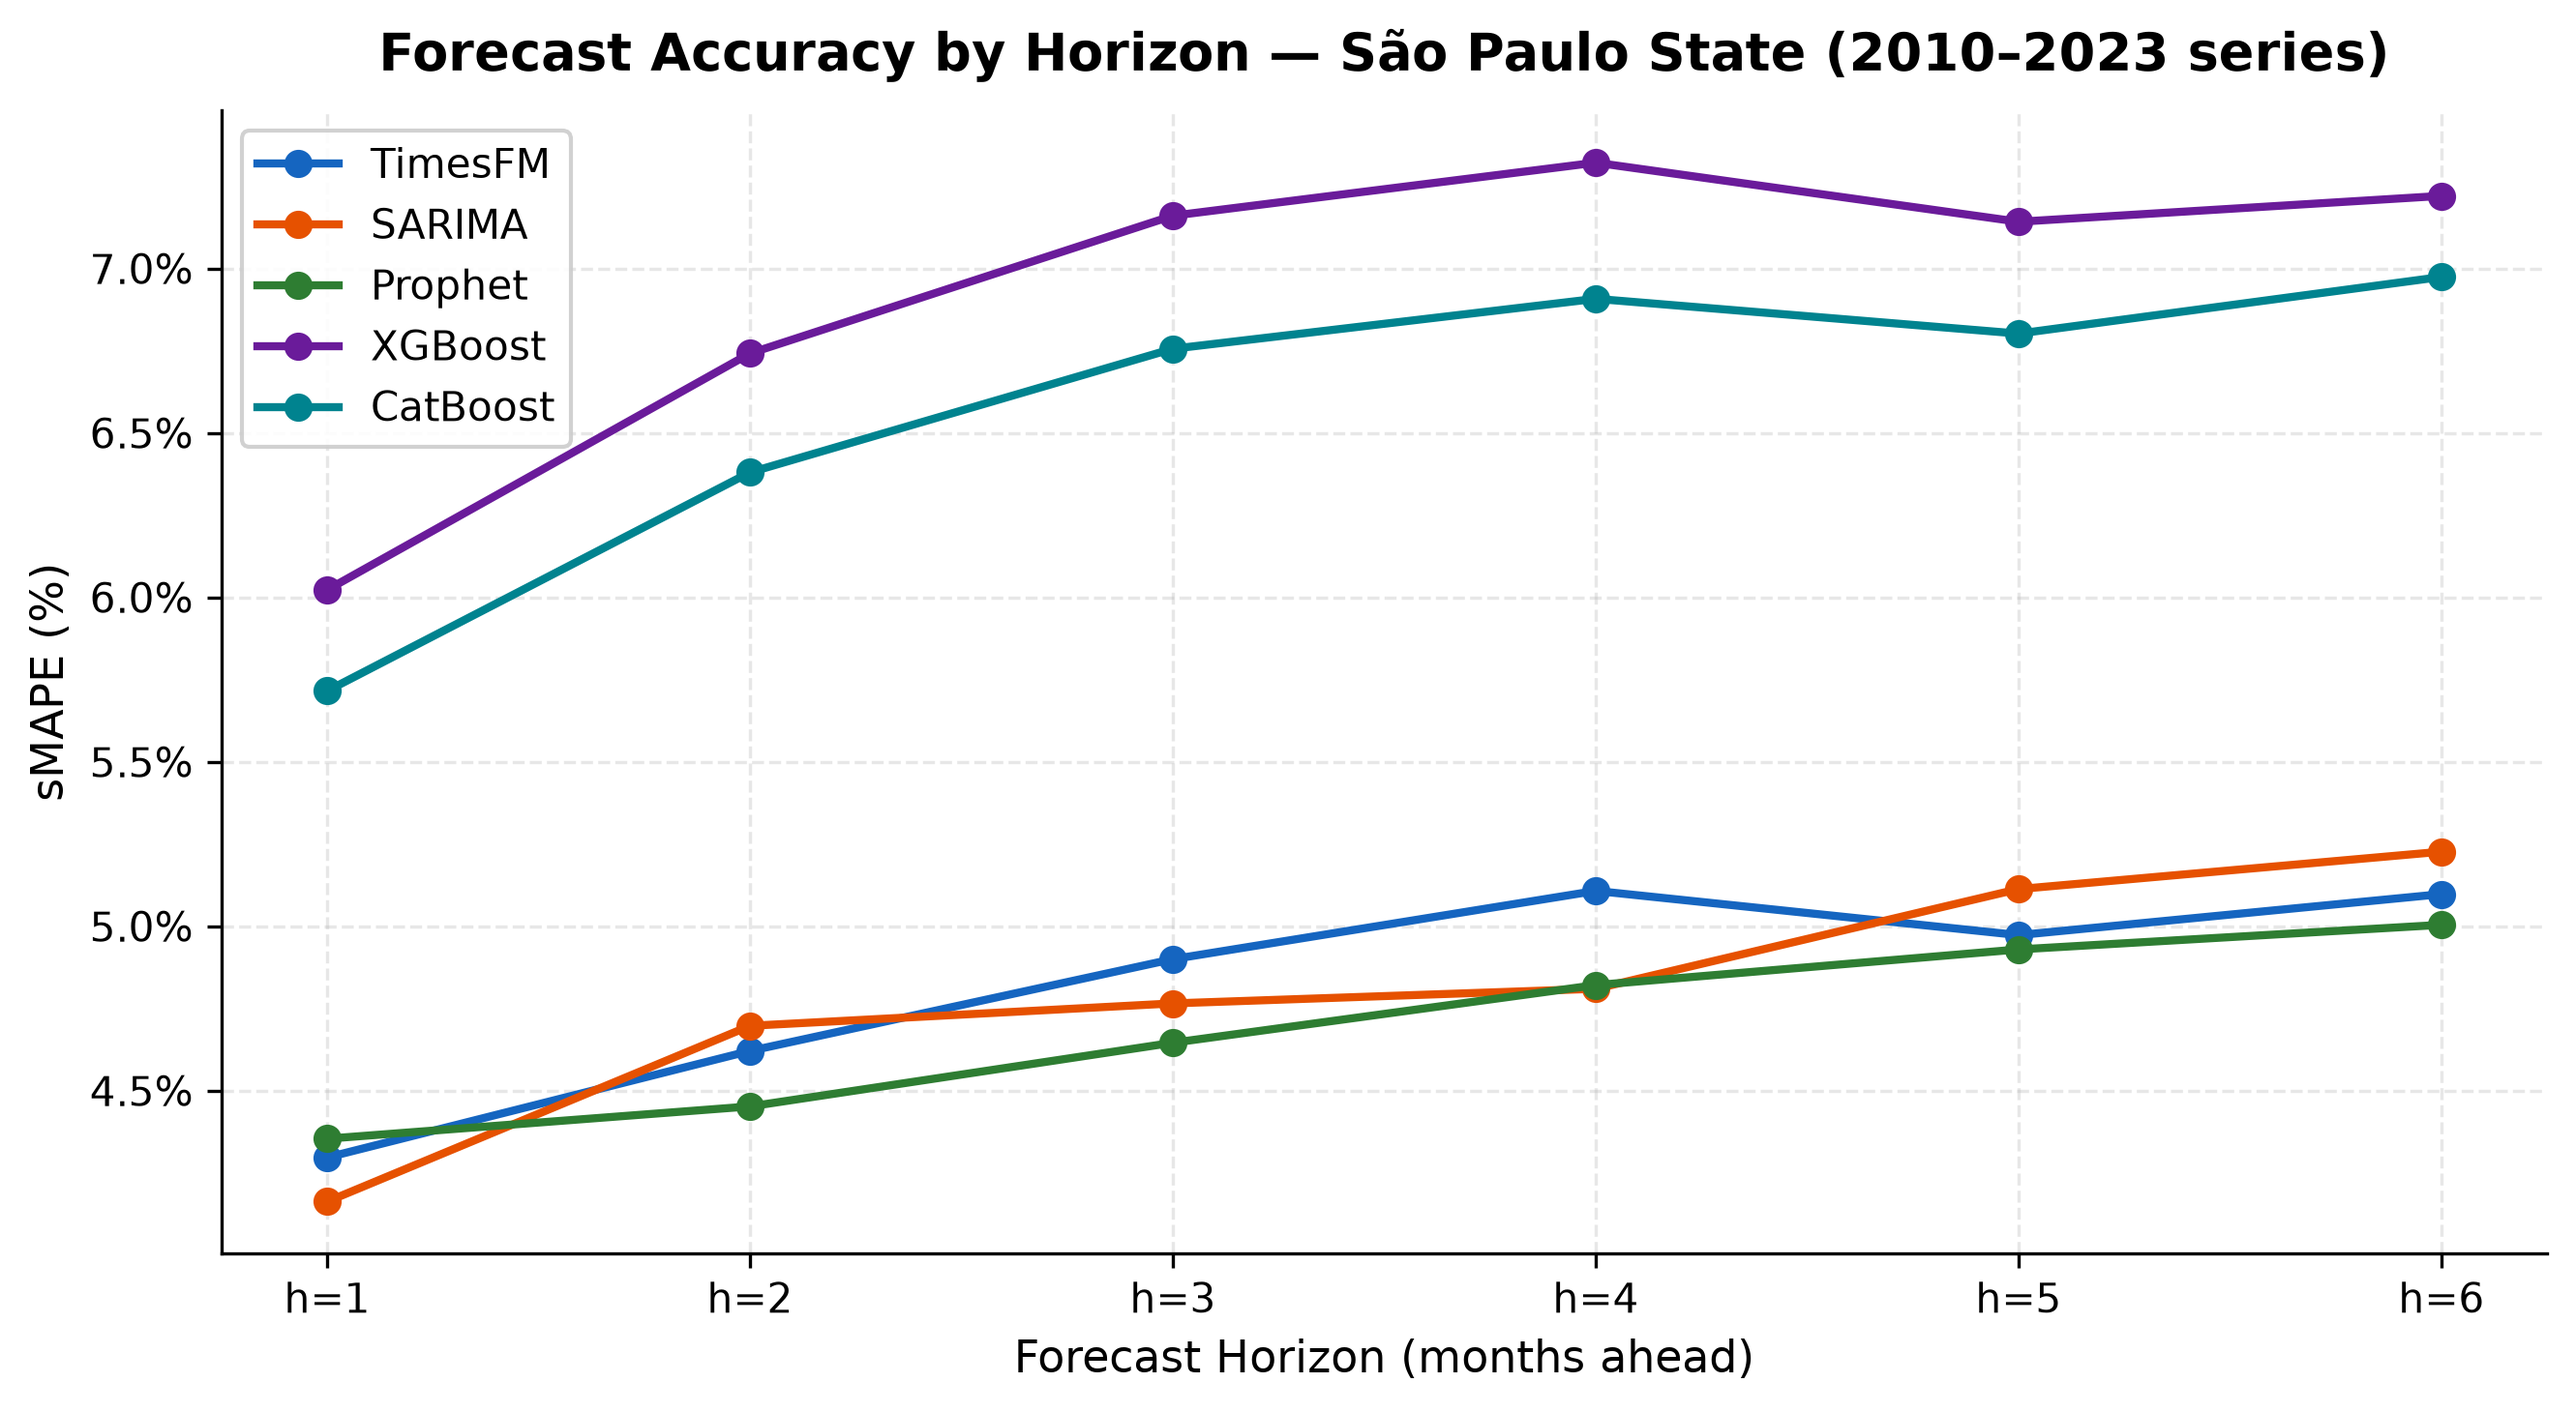
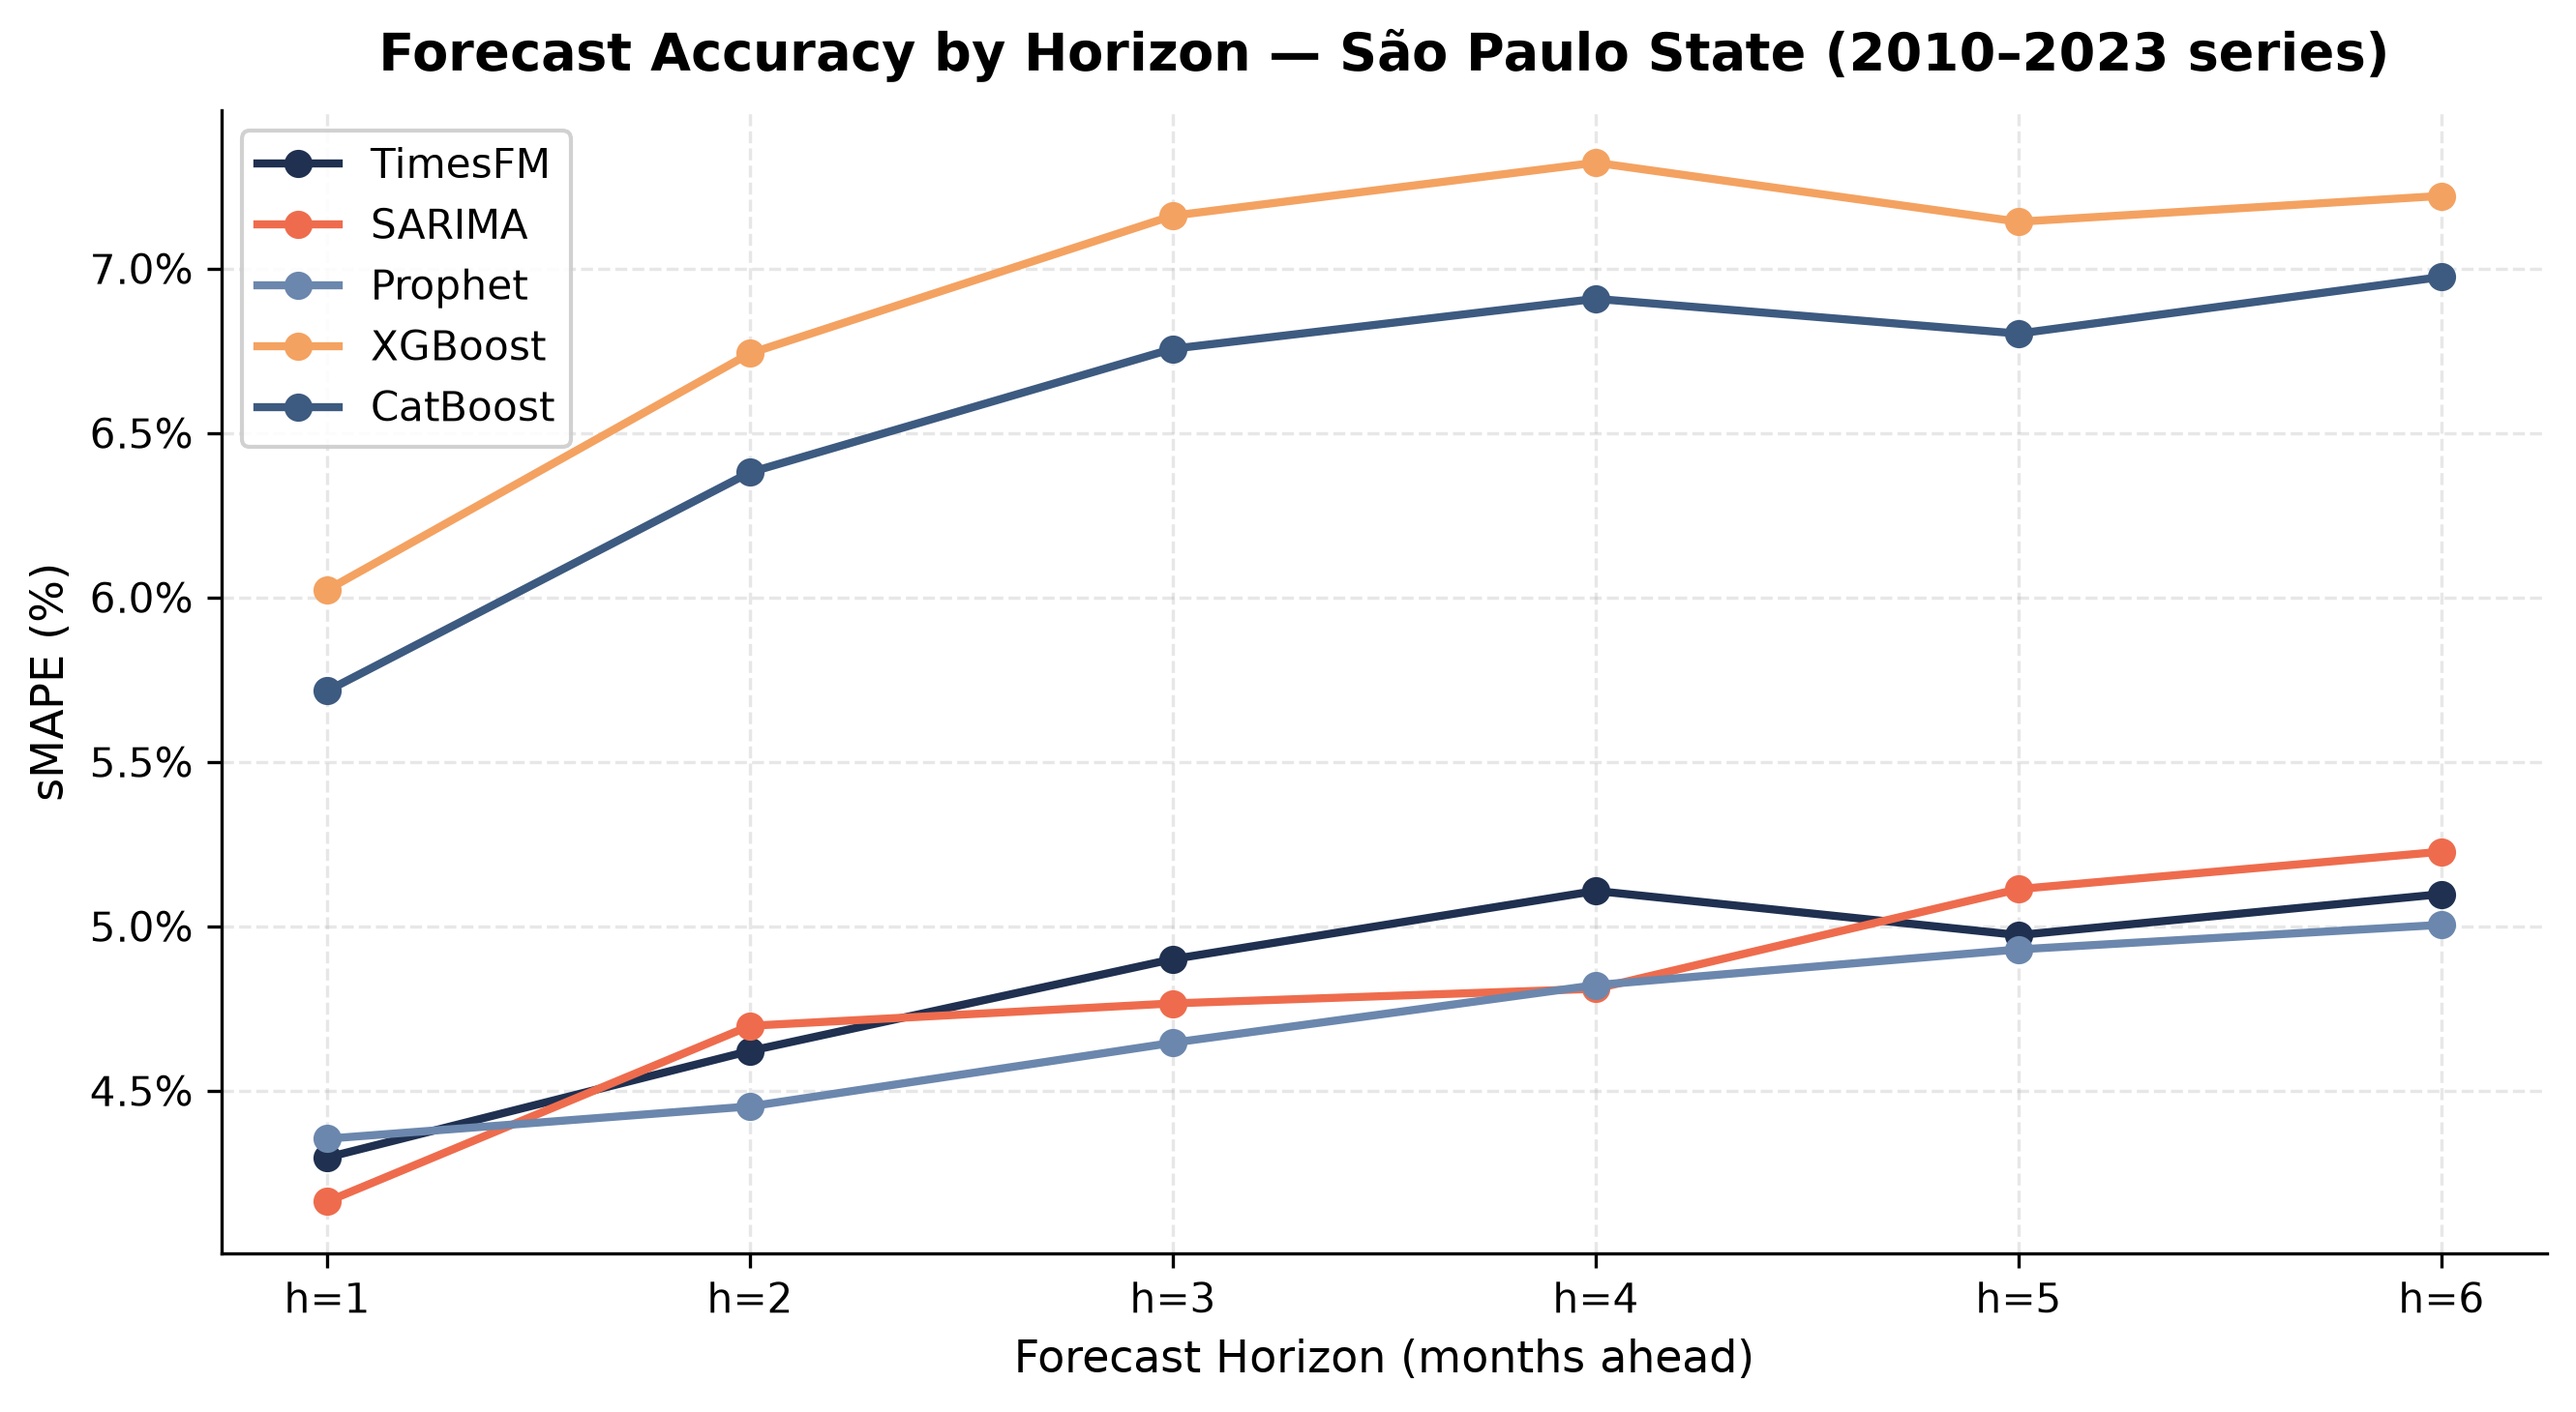
style: figuras da rodada 2010-2023 na paleta da identidade visual
Azul-ardosia/azul-profundo/azul-medio + coral + ambar (identidade Isabela
Venancio), grafite para a serie observada. Ambar nunca adjacente ao coral;
pares adjacentes validados para visao normal e daltonismo; rotulos diretos
mantidos como codificacao secundaria.

diff --git a/scripts/generate_figures_2010_2023.py b/scripts/generate_figures_2010_2023.py
@@ -51,14 +51,16 @@ plt.rcParams.update({
     "axes.titlepad":     10,
 })
 
-# Paleta por entidade (cores fixas por modelo; variantes _temp herdam a cor base)
+# Paleta por entidade — identidade visual Isabela Venancio (azul-ardósia + coral).
+# Cores fixas por modelo; variantes _temp herdam a cor base; âmbar nunca fica
+# adjacente ao coral (par validado para visão normal e daltonismo).
 C = {
-    "timesfm":  "#1565C0",
-    "sarima":   "#E65100",
-    "prophet":  "#2E7D32",
-    "xgboost":  "#6A1B9A",
-    "catboost": "#00838F",
-    "obs":      "#212121",
+    "timesfm":  "#1F3050",   # azul-profundo
+    "sarima":   "#EE6C4D",   # coral
+    "prophet":  "#6B87AD",   # azul-médio
+    "xgboost":  "#F4A261",   # âmbar
+    "catboost": "#3D5A80",   # azul-ardósia
+    "obs":      "#2B2B2B",   # grafite
 }
 LABELS = {
     "timesfm": "TimesFM", "sarima": "SARIMA", "prophet": "Prophet",
@@ -89,11 +91,11 @@ def fig1_time_series(obs, args):
 
     for year in range(obs["date"].dt.year.min(), obs["date"].dt.year.max() + 1):
         ax.axvspan(pd.Timestamp(f"{year}-06-01"), pd.Timestamp(f"{year}-07-31"),
-                   alpha=0.12, color="#1565C0", zorder=0)
+                   alpha=0.12, color="#3D5A80", zorder=0)
     ax.axvspan(pd.Timestamp("2020-03-01"), pd.Timestamp("2021-06-30"),
-               alpha=0.07, color="red", zorder=0)
+               alpha=0.10, color="#EE6C4D", zorder=0)
     ax.text(pd.Timestamp("2020-08-01"), obs["value"].max() * 0.955, "COVID-19",
-            color="#C62828", fontsize=9, ha="center", va="top", style="italic")
+            color="#EE6C4D", fontsize=9, ha="center", va="top", style="italic")
 
     start = pd.Timestamp(args.backtest_start)
     ax.axvline(start, color="gray", linestyle=":", linewidth=1.5)
@@ -107,15 +109,15 @@ def fig1_time_series(obs, args):
     idx_max, idx_min = obs["value"].idxmax(), obs["value"].idxmin()
     ax.annotate(f"Max: {obs.loc[idx_max,'value']:,.0f}\n{obs.loc[idx_max,'date'].strftime('%b %Y')}",
                 xy=(obs.loc[idx_max, "date"], obs.loc[idx_max, "value"]),
-                xytext=(-78, -14), textcoords="offset points", fontsize=8.5, color="#1565C0",
-                arrowprops=dict(arrowstyle="->", color="#1565C0", lw=0.9))
+                xytext=(-78, -14), textcoords="offset points", fontsize=8.5, color="#3D5A80",
+                arrowprops=dict(arrowstyle="->", color="#3D5A80", lw=0.9))
     ax.annotate(f"Min: {obs.loc[idx_min,'value']:,.0f}\n{obs.loc[idx_min,'date'].strftime('%b %Y')}",
                 xy=(obs.loc[idx_min, "date"], obs.loc[idx_min, "value"]),
-                xytext=(14, 22), textcoords="offset points", fontsize=8.5, color="#C62828",
-                arrowprops=dict(arrowstyle="->", color="#C62828", lw=0.9))
+                xytext=(14, 22), textcoords="offset points", fontsize=8.5, color="#EE6C4D",
+                arrowprops=dict(arrowstyle="->", color="#EE6C4D", lw=0.9))
 
-    winter_patch = mpatches.Patch(color="#1565C0", alpha=0.25, label="Winter peak (Jun–Jul)")
-    covid_patch = mpatches.Patch(color="red", alpha=0.15, label="COVID-19 period")
+    winter_patch = mpatches.Patch(color="#3D5A80", alpha=0.25, label="Winter peak (Jun–Jul)")
+    covid_patch = mpatches.Patch(color="#EE6C4D", alpha=0.25, label="COVID-19 period")
     ax.legend(handles=[winter_patch, covid_patch], loc="upper left", framealpha=0.9)
 
     ax.set_xlabel("Month")
@@ -257,19 +259,19 @@ def fig7_seasonal_profile(obs, args):
 
     def bar_color(m):
         if m in (6, 7):
-            return "#1565C0"
+            return "#3D5A80"
         if m in (1, 2):
-            return "#C62828"
-        return "#78909C"
+            return "#EE6C4D"
+        return "#6B7280"
 
     fig, ax = plt.subplots(figsize=(11, 4.5))
     bars = ax.bar(monthly["month"], monthly["mean"],
                   color=[bar_color(m) for m in monthly["month"]],
                   alpha=0.85, width=0.72, edgecolor="white", linewidth=0.9)
     ax.errorbar(monthly["month"], monthly["mean"], yerr=monthly["std"], fmt="none",
-                ecolor="#37474F", elinewidth=1.4, capsize=5, capthick=1.4, alpha=0.7)
+                ecolor="#2B2B2B", elinewidth=1.4, capsize=5, capthick=1.4, alpha=0.7)
     ax.fill_between(monthly["month"], monthly["min"], monthly["max"],
-                    alpha=0.08, color="#37474F", step="mid")
+                    alpha=0.08, color="#2B2B2B", step="mid")
     for bar, mean_v in zip(bars, monthly["mean"]):
         ax.text(bar.get_x() + bar.get_width() / 2,
                 bar.get_height() + monthly["std"].max() * 0.05,
@@ -285,9 +287,9 @@ def fig7_seasonal_profile(obs, args):
         fontweight="bold")
     ax.yaxis.set_major_formatter(mticker.FuncFormatter(lambda x, _: f"{int(x):,}"))
 
-    handles = [mpatches.Patch(color="#1565C0", alpha=0.85, label="Winter peak (Jun–Jul)"),
-               mpatches.Patch(color="#C62828", alpha=0.85, label="Summer trough (Jan–Feb)"),
-               mpatches.Patch(color="#78909C", alpha=0.85, label="Other months")]
+    handles = [mpatches.Patch(color="#3D5A80", alpha=0.85, label="Winter peak (Jun–Jul)"),
+               mpatches.Patch(color="#EE6C4D", alpha=0.85, label="Summer trough (Jan–Feb)"),
+               mpatches.Patch(color="#6B7280", alpha=0.85, label="Other months")]
     ax.legend(handles=handles, loc="upper right", framealpha=0.9)
 
     fig.tight_layout()
